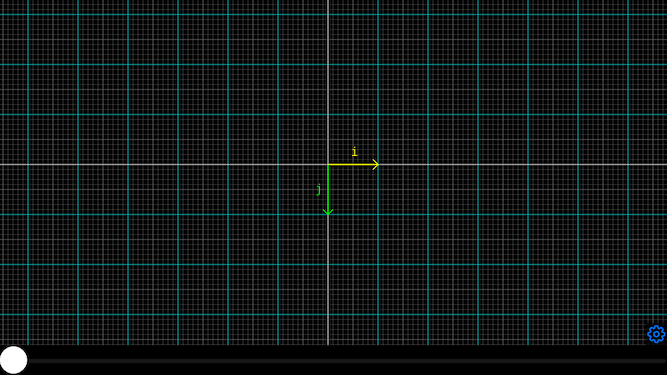
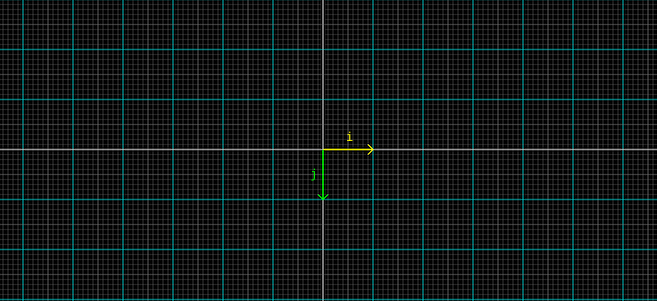
Add content for affine transforms

diff --git a/content/posts/03-affinetransform/index.md b/content/posts/03-affinetransform/index.md
@@ -8,21 +8,24 @@ GHIssueID:
 
 Lately I have been watching the excellent "[Essence of Linear Algebra](https://www.youtube.com/playlist?list=PLZHQObOWTQDPD3MizzM2xVFitgF8hE_ab)" video series by [3blue1brown](https://www.3blue1brown.com/). As an iOS developer, I was vaguely familiar with [CGAffineTransform](https://developer.apple.com/documentation/coregraphics/cgaffinetransform) and how it could be used to scale, rotate and shear UIViews. Watching 3b1b's series helped me understand the math behind it. This post is my attempt at explaining, and cementing my own understanding, of the concept.
 
-## Linear Transformations
-A linear transformation is, quite simply, transformation of space subject to following restrictions -
+## What is a transform?
+A transform is, quite simply, transformation of space. Take a piece of paper lying on a flat table. This paper represents our sample space. Assign an arbitrary point on this paper as origin. We can rotate the paper about the origin, stretch it in all directions (assuming our paper is made out of rubber), move the paper around or go fancy and curl it up into a cylinder. Each of these actions represents some sort of transform we performed on our "space".
+
+## Linear Transforms
+Before looking at affine transforms, let's look at a subset of it called linear transforms. A linear transform is a transform subject to following restrictions -
 
 - All lines must remain lines
 - Origin must not move
 
-Following are examples of transformations which are not linear.
+We will concern ourselves with two dimensional spaces in this article. A 2D space can be represented using a grid wih X and Y axes. Following are examples of transforms on this grid which are NOT linear. Blue grid lines denote the space after transform and light gray lines in background denote the original un-transformed space. White lines are X and Y axes.
 
-{{<figure src="nonlinear_2d_transform_1.gif" alt="Non linear transformation 1" caption="Non linear transform. Lines get all curvy." position="center" style="border-radius: 8px;">}}
-{{<figure src="nonlinear_2d_transform_2.gif" alt="Non linear transformation 2" caption="Non linear transform. Origin moves." position="center" style="border-radius: 8px;">}}
-{{<figure src="nonlinear_2d_transform_3.gif" alt="Non linear transformation 3" caption="Non linear transform. Diagonal line gets curvy" position="center" style="border-radius: 8px;">}}
+{{<figure src="nonlinear_2d_transform_1.gif" alt="Non linear transform 1" caption="Non linear transform. Lines get all curvy." position="center" style="border-radius: 8px;">}}
+{{<figure src="nonlinear_2d_transform_2.gif" alt="Non linear transform 2" caption="Non linear transform. Origin moves." position="center" style="border-radius: 8px;">}}
+{{<figure src="nonlinear_2d_transform_3.gif" alt="Non linear transform 3" caption="Non linear transform. Diagonal line gets curvy" position="center" style="border-radius: 8px;">}}
 
-Given these restrictions, how would you go about expressing a linear transformation numerically? To do this, imagine two [special](https://en.wikipedia.org/wiki/Unit_vector) vectors - $\hat{i}$ and $\hat{j}$ lying along postive X and Y axes respectively. In iOS, positive Y axis points downwards rather than upwards, so these vectors plotted in a 2D space look something like this -
+Given these restrictions, how would you go about expressing a linear transform numerically? To do this, imagine two [special](https://en.wikipedia.org/wiki/Unit_vector) vectors - $\hat{i}$ and $\hat{j}$ lying along postive X and Y axes respectively. In iOS, positive Y axis points downwards rather than upwards, so these vectors plotted in a 2D space look something like this -
 
-{{<figure src="i_j.png" alt="Unit vectors" caption="Unit vectors. Ignore the settings button and slider at the bottom" position="center" style="border-radius: 8px;">}}
+{{<figure src="i_j.png" alt="Unit vectors" caption="Unit vectors." position="center" style="border-radius: 8px;">}}
 
 Co-ordinates of $\hat{i}$ are (1, 0) and those of $\hat{j}$ are (0, 1). When written down as [row vectors](https://en.wikipedia.org/wiki/Row_and_column_vectors) -
 
@@ -34,33 +37,33 @@ $$
 \hat{j}=\begin{bmatrix}0 & 1\end{bmatrix}
 $$
 
-Now, as long as the transformation is linear, you only need to know where $\hat{i}$ and $\hat{j}$ end up after the transform to describe the linear transformation numerically. Let's consider an example -
+Now, as long as the transform is linear, you only need to know where $\hat{i}$ and $\hat{j}$ end up after the transform to describe the linear transform numerically. Let's consider an example -
 
-{{<figure src="linear_2d_transform_1.gif" alt="Linear transformation 1" caption="A linear transformation" position="center" style="border-radius: 8px;">}}
+{{<figure src="linear_2d_transform_1.gif" alt="Linear transform 1" caption="A linear transform" position="center" style="border-radius: 8px;">}}
 
-The crosshairs here denote the position where our unit vectors end up after the transform. $\hat{i}$ moves from (1, 0) to (3, 1) and $\hat{j}$ moves from (0, 1) to (1, 2). So this linear transform can be represented by the matrix $\vec{T}$ -
+The crosshairs here denote the position where our unit vectors end up after the transform. $\hat{i}$ moves from (1, 0) to (3, 1) and $\hat{j}$ moves from (0, 1) to (1, 2). So this linear transform can be represented by the matrix T -
 
 $$
-\vec{T}=\begin{bmatrix}3 & 1\\\\1 & 2\end{bmatrix}
+T=\begin{bmatrix}3 & 1\\\\1 & 2\end{bmatrix}
 $$
 
 In general, any linear transform can be represented in matrix form as -
 
 $$
-\vec{T}=\begin{bmatrix}a & b\\\\c & d\end{bmatrix}
+T=\begin{bmatrix}a & b\\\\c & d\end{bmatrix}
 $$
 
 where (a, b) denotes co-ords of $\hat{i}$ and (c, d) denotes the co-ords of $\hat{j}$ after the transform. 
 
-Given a vector $\begin{bmatrix}x & y\end{bmatrix}$ and transfrom $\vec{T}$ (which is a 2x2 matrix), the corresponding vector can be found multiplying vector matrix and the transform matrix.
+Given a vector $\begin{bmatrix}x & y\end{bmatrix}$ and transfrom T (which is a 2x2 matrix), the corresponding vector $\begin{bmatrix}\grave{x} & \grave{y}\end{bmatrix}$ can be found by multiplying the vector and transform matrix.
 
 $$
 \begin{bmatrix}\grave{x} & \grave{y}\end{bmatrix} = \begin{bmatrix}x & y\end{bmatrix} \times \begin{bmatrix}a & b\\\\c & d\end{bmatrix}
 $$
 
-If all the math stuff scares you, just remember what the matrix represents visually - The new co-ords of unit vectors $\hat{i}$ and $\hat{j}$ after the transform is applied. Let's look at a few more examples visually.
+If all the matrix math stuff scares you, just remember what the matrix represents visually - The new co-ordinates of unit vectors $\hat{i}$ and $\hat{j}$ after the transform is applied. Let's look at a few more examples visually.
 
-##### [Scale Matrix](https://developer.apple.com/documentation/coregraphics/1455016-cgaffinetransformmakescale)
+##### Scale transform
 Scaling is simple. We just need to move $\hat{i}$ and $\hat{j}$ further along their axes by whatever amount we want to scale in each direction.
 
 {{<figure src="scale.gif" alt="Scale transform" caption="Scale by 3 along X axis and by 1.5 along Y axis" position="center" style="border-radius: 8px;">}}
@@ -68,14 +71,104 @@ Scaling is simple. We just need to move $\hat{i}$ and $\hat{j}$ further along th
 Corresponding matrix -
 
 $$
-\vec{T}=\begin{bmatrix}sx & 0\\\\0 & sy\label{A famous equation}\end{bmatrix}
+T=\begin{bmatrix}sx & 0\\\\0 & sy\end{bmatrix}
 $$
+
+UIKit provides a convenient function [CGAffineTransformMakeScale](https://developer.apple.com/documentation/coregraphics/1455016-cgaffinetransformmakescale) to create this matrix.
 
 Note that you can specify negative values for sx and sy. What do you think the resulting transform will look like?
 
-##### [Rotation Matrix](https://developer.apple.com/documentation/coregraphics/1455666-cgaffinetransformmakerotation)
+##### Rotation transform
 Imagine moving $\hat{i}$ from (1, 0) to (0, 1) and $\hat{j}$ from (0, 1) to (-1, 0).
 
 {{<figure src="rotate.gif" alt="Rotate transform" caption="Rotate 90° clockwise" position="center" style="border-radius: 8px;">}}
 
-The effect is same as rotating the image 90° clockwise. For all other angles of rotation, it is simpler to use [CGAffineTransformMakeRotation](https://developer.apple.com/documentation/coregraphics/1455666-cgaffinetransformmakerotation) function which accepts an angle and gives you back the correct transformation matrix. If you wanna understand the math behind rotation angle, read up on [Unit Circle](https://en.wikipedia.org/wiki/Unit_circle)
+The effect is same as rotating the image 90° clockwise. For all other angles of rotation, it is simpler to use [CGAffineTransformMakeRotation](https://developer.apple.com/documentation/coregraphics/1455666-cgaffinetransformmakerotation) function which accepts a rotation angle and gives you back the correct transform matrix. To understand the math behind rotation angle, read up on [Unit Circle](https://en.wikipedia.org/wiki/Unit_circle)
+
+##### Shear transform
+Shearing involves moving x co-ordinate of $\hat{j}$ for shear parallel to X axis or y co-ordinate of $\hat{i}$ for shear parallel to Y axis. Example -
+
+{{<figure src="shear.gif" alt="Shear transform" caption="Shear parallel to X axis" position="center" style="border-radius: 8px;">}}
+
+Corresponding matrix -
+
+$$
+T=\begin{bmatrix}1 & Sy\\\\Sx & 1\end{bmatrix}
+$$
+
+There is no convenience function for creating a shear matrix in UIKit.
+
+## Affine Transforms
+Remember the two restrictions we had imposed on a transform to qualify as linear? Namely -
+
+- All lines must remain lines
+- Origin must not move
+
+If we remove the second restriction, the transform is said to be affine. This means all linear transforms are also affine transforms, but not all affine transforms are linear. Here's an example -
+
+{{<figure src="affine_2d_transform.gif" alt="Affine Transform" caption="Affine Transform. Origin moves to (-2, 1)" position="center" style="border-radius: 8px;">}}
+
+Affine transforms are easy enough to visualize. Afterall, Affine transform = Linear transform + Translation. But how do you represent this affine transform numerically? 
+
+If we represent the translation by a new vector $\begin{bmatrix}tx & ty\end{bmatrix}$ (remember that this vector just encodes the x and y co-ordinates of the translation), then we can represent the affine transform as -
+
+$$
+\begin{bmatrix}\grave{x} & \grave{y}\end{bmatrix} = \begin{bmatrix}x & y\end{bmatrix} \times \begin{bmatrix}a & b\\\\c & d\end{bmatrix} + \begin{bmatrix}tx & ty\end{bmatrix}
+$$
+
+There's one problem with this representation though. It involves two matrix operations - a matrix multiplication followed by matrix addition. Affine transforms are very common in UI code and it pays to have them represented using just a single multiplication matrix. To do this, we need to employ a bit of 3D trickery.
+
+## To higher dimension and back
+We have been focusing on 2D spaces in this article. But the linear transforms mentioned here work equally well in 3D as well. In 3D, we have 3 unit vectors rather than 2 and we need 3 numbers to encode co-ordinates of each one of them, rather than 2.
+
+{{<figure src="3d_unit_vectors.png" alt="3D Unit Vectors" caption="Units vectors in 3 dimensions" position="center" style="border-radius: 8px;">}}
+
+Let's embed our 2D space in which the affine transform is taking place inside this 3D space. It will be a plane in this space. Let's put this plane perpendicular to $\hat{k}$ - the unit vector along Z axis.
+
+{{<figure src="2d_affine_as_3d_shear.png" alt="2D affine as 3D shear" caption="Affine in 2D is linear in 3D" position="center" style="border-radius: 8px;">}}
+
+Visualizing a 2D affine transform in context of this 3D space, it becomes obvious that what is an affine transform in 2D becomes a linear shear transform in 3D! And linear transforms, as we know, can be represented using a single matrix multiplication.
+
+To help visualize this 2D affine = 3D linear trick, go back to our example of a piece of paper lying on a table. Let the floor on which the table is lying be X and Y axes and vertical be Z axis. Let the height of table be 1 unit. In this setup, the top surface of table is a plane perpendicular to $\hat{k}$. Now perform a shear operation on the whole table parallel to Z axis and observe how the piece of paper moves. It will be a translation in the 2D plane, which is the top surface of the table.
+
+
+Let's try to determine the matrix for this 3D shear transform. Our 2D linear transform equation looks like this.
+
+$$
+\begin{bmatrix}\grave{x} & \grave{y}\end{bmatrix} = \begin{bmatrix}x & y\end{bmatrix} \times \begin{bmatrix}a & b\\\\c & d\end{bmatrix}
+$$
+
+Since we are moving up a dimension, all the matrices in this equation need to modified to account for Z axis. Let's fill in the new values we need to introduce with ?? -
+
+$$
+\begin{bmatrix}\grave{x} & \grave{y} & ??\end{bmatrix} = \begin{bmatrix}x & y & ??\end{bmatrix} \times \begin{bmatrix}a & b & ??\\\\c & d & ??\\\\?? & ?? & ??\end{bmatrix}
+$$
+
+Since we have embedded our 2D plane at (0, 0, 1) in 3D space, the value of Z co-ordinate remains constant throughout the plane. Our equation becomes -
+
+$$
+\begin{bmatrix}\grave{x} & \grave{y} & 1\end{bmatrix} = \begin{bmatrix}x & y & 1\end{bmatrix} \times \begin{bmatrix}a & b & ??\\\\c & d & ??\\\\?? & ?? & ??\end{bmatrix}
+$$
+
+For the 3x3 transform matrix, rows represent co-ordinates of $\hat{i}$, $\hat{j}$ and $\hat{k}$. Z co-ordinate is zero for first two and 1 for $\hat{k}$, by definition of unit vectors - 
+
+$$
+\begin{bmatrix}\grave{x} & \grave{y} & 1\end{bmatrix} = \begin{bmatrix}x & y & 1\end{bmatrix} \times \begin{bmatrix}a & b & 0\\\\c & d & 0\\\\?? & ?? & 1\end{bmatrix}
+$$
+
+Last row of the transform matrix represents the co-ordinate of $\hat{k}$. Since translation in 2D is a shear in 3D - and shear parallel to Z axis will change X and Y co-ordinates of $\hat{k}$ - our equation becomes -
+
+$$
+\begin{bmatrix}\grave{x} & \grave{y} & 1\end{bmatrix} = \begin{bmatrix}x & y & 1\end{bmatrix} \times \begin{bmatrix}a & b & 0\\\\c & d & 0\\\\tx & ty & 1\end{bmatrix}
+$$
+
+This equation is present in the [docs of CGAffineTransform](https://developer.apple.com/documentation/coregraphics/cgaffinetransform?language=objc). Hopefully, this post gave you a brief idea about what the equation represents visually, and how it is derived!
+
+## Notes
+- I created a small app to interactively try out various affine transforms. [It can be found here](https://github.com/iTwenty/AffTranDemo/)
+- We have been representing vectors as row matrices in this post. But that is just a convention I chose to follow since CGAffineTransform API follows the same convention. They can very well be represented as column vectors as well. In that case, we need to [transpose](https://mathinsight.org/matrix_transpose) the transform matrix and move it before the multiplication sign. i.e
+
+$$
+\begin{bmatrix}\grave{x}\\\\\grave{y}\\\\1\end{bmatrix} = \begin{bmatrix}a & c & tx\\\\b & d & ty\\\\0 & 0 & 1\end{bmatrix} \times \begin{bmatrix}x\\\\y\\\\1\end{bmatrix}
+$$
+- You can use [this website](https://shad.io/MatVis/) to try out linear transforms in your browser. Just keep in mind that positive Y points upwards here and matrices are transposed (see point above).
